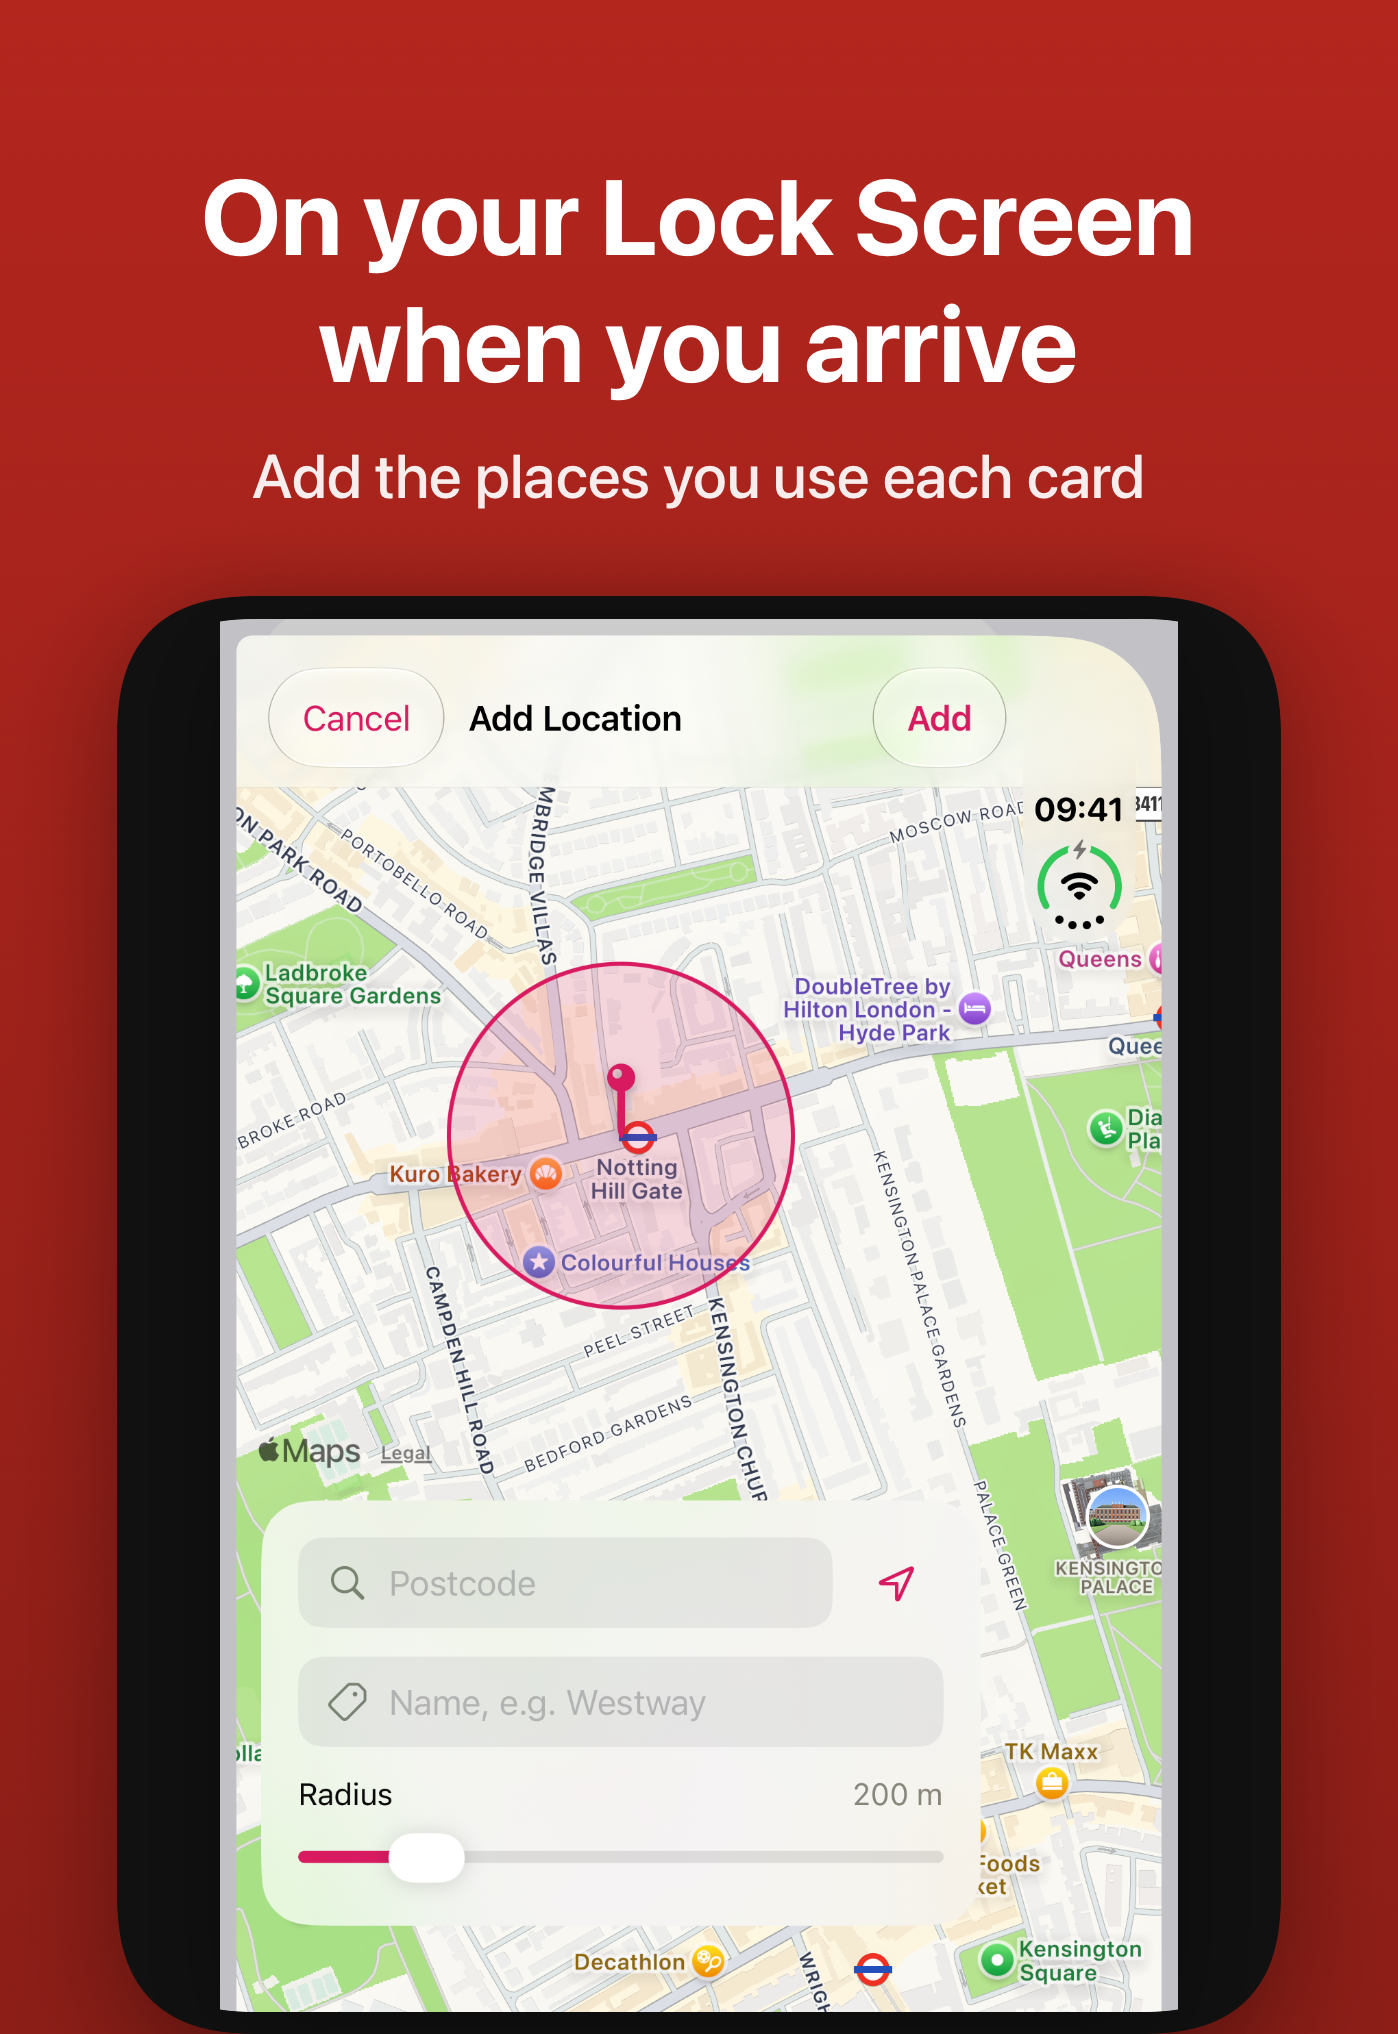
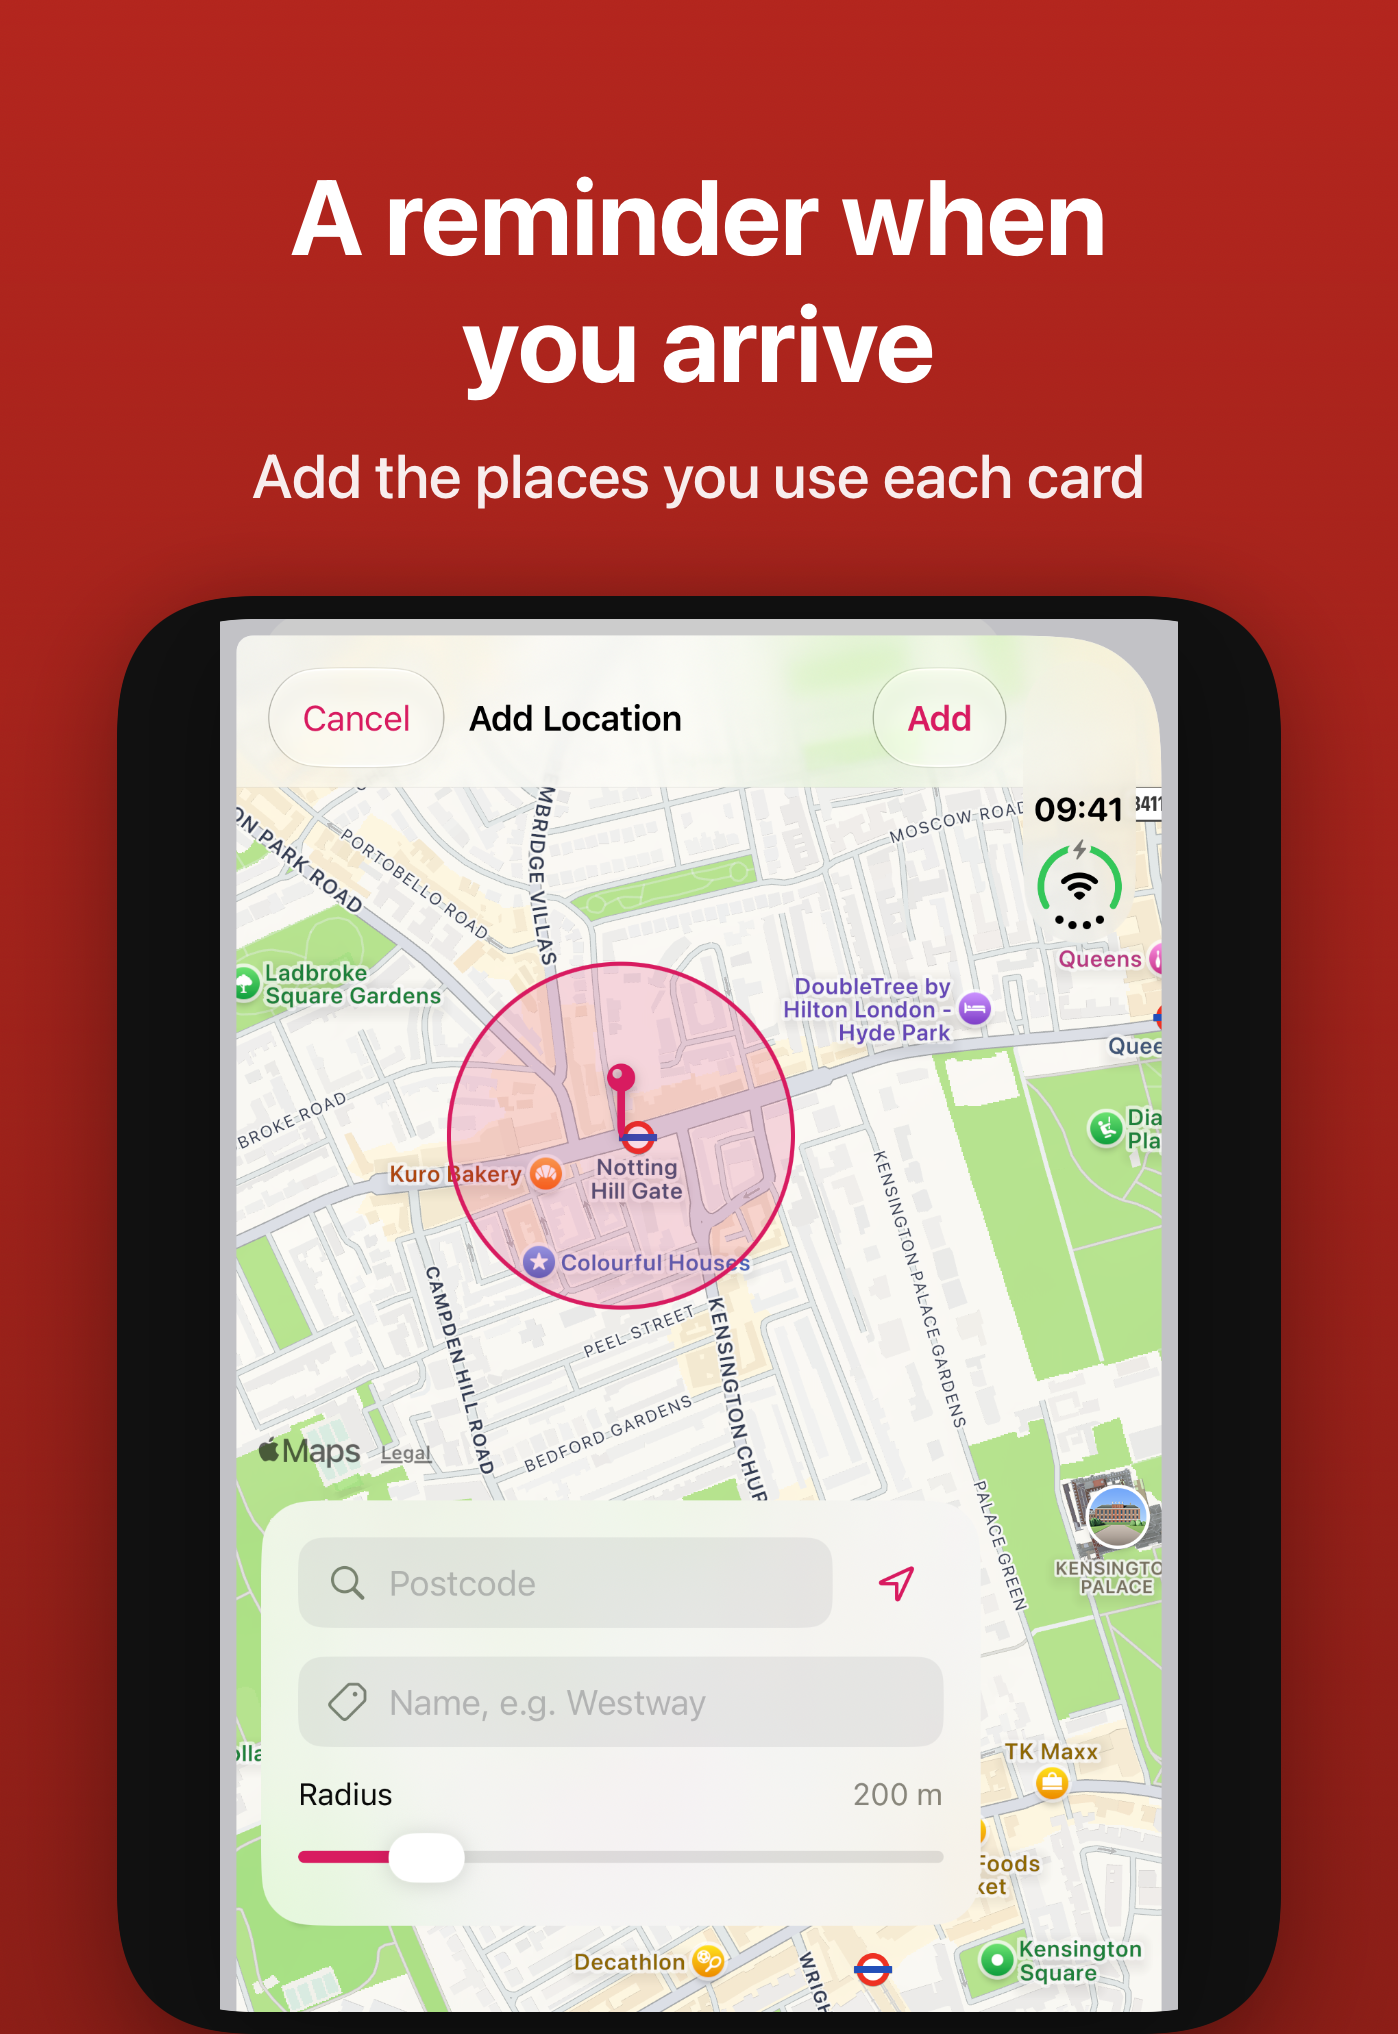
docs: stop saying the barcode appears on the Lock Screen when you arrive
The arrival notification shows the card's name and "You're at <place>.
Your barcode is ready." Its barcode image does not show on the Lock
Screen, so the changelog, App Store description and caption, review
notes, website, README and spec now describe a reminder that opens the
card when tapped. The in-app wording follows with the arrival changes.

Changed region(s): [[0.123, 0.0619, 0.8612, 0.2168]]

diff --git a/Website/src/index.html b/Website/src/index.html
@@ -47,8 +47,8 @@
         </div>
         <div class="feature">
           <span class="icon">📍</span>
-          <h3>Arrive and it is there</h3>
-          <p>Add the places you use a card, and its barcode appears on your Lock Screen when you get there.</p>
+          <h3>A reminder when you arrive</h3>
+          <p>Add the places you use a card, and a notification reminds you when you get there. Tap it to open the card.</p>
         </div>
         <div class="feature">
           <span class="icon">🎨</span>

diff --git a/spec/arrival-notifications.md b/spec/arrival-notifications.md
@@ -1,15 +1,15 @@
 # Arrival notifications
 
-When you arrive at one of a card's places, its barcode appears on your Lock Screen. Each place is a location-triggered local notification that iOS watches itself: there is no background location, no server, and nothing runs while the app is closed.
+When you arrive at one of a card's places, a notification reminds you, and tapping it opens the card. Each place is a location-triggered local notification that iOS watches itself: there is no background location, no server, and nothing runs while the app is closed.
 
-### ARR-1: See the barcode on my Lock Screen when I arrive
+### ARR-1: Get a reminder when I arrive
 
-As a card holder, I want the right card's barcode to appear when I reach the shop, so that it is ready before I get to the till.
+As a card holder, I want a reminder when I reach the shop, so that I open the right card before I get to the till.
 
 - Each place of each card (PLACE-1) is scheduled as a notification that fires when you enter its circle. Leaving the circle does nothing.
 - It fires every time you enter, without needing to be scheduled again.
 - The notification's title is the card's name and its text is "You're at <place>. Your barcode is ready."
-- It carries the barcode as an image on white with a quiet zone, ready to scan (BAR-2). A code that can't be drawn sends the notification without the image (BAR-3).
+- The app attaches the barcode to the notification as an image on white (BAR-2), but the barcode does not show on the Lock Screen: the notification appears as its title and text. A code that can't be drawn sends the notification without the attachment (BAR-3).
 - Notifications for the same card are grouped together.
 - While the app is open, an arrival still shows as a banner and in Notification Centre.
 - The app schedules from the Cards list: the first time the list appears after launch, and whenever a card's name, code, barcode type or places change, it removes every scheduled arrival and schedules the current ones (ARR-3).

diff --git a/spec/README.md b/spec/README.md
@@ -48,7 +48,7 @@ Only write what the code does. If a criterion is wrong, fix the criterion or the
 | [barcodes.md](barcodes.md) | BAR | Supported barcode types, how codes are drawn, codes that can't be drawn, and the brightness boost |
 | [colours-and-design.md](colours-and-design.md) | COL | The palette, custom colours, the card face, full-colour list rows, gradients, readable text, appearance and the app icon |
 | [places.md](places.md) | PLACE | Adding places on the map or by postcode, the radius, Add current location, removing places, distances and location permission |
-| [arrival-notifications.md](arrival-notifications.md) | ARR | The barcode on the Lock Screen on arrival, opening the card from it, the 20-region limit, permission and the Settings switch |
+| [arrival-notifications.md](arrival-notifications.md) | ARR | A reminder on arrival, opening the card from it, the 20-region limit, permission and the Settings switch |
 | [widget.md](widget.md) | WID | The Home Screen widget: nearest or chosen card, refresh, opening the card, layouts, tinted Home Screens and the snapshot |
 | [sync-and-data.md](sync-and-data.md) | DATA | iCloud sync, export and import as JSON, old exports, deleting every card, and where the store lives |
 | [settings.md](settings.md) | SET | The Settings screen and What's New |

diff --git a/CHANGELOG.md b/CHANGELOG.md
@@ -9,7 +9,7 @@ Every version of Card Barcodes and what it changed, newest first. This file is g
 - A Home Screen widget shows the barcode of the card for where you are, or one you choose.
 - Give each card a colour from 23, or pick any colour you like.
 - Add the places you use a card, from the map or by postcode, and see how far away they are.
-- Arrive at one of a card's places and its barcode appears on your Lock Screen.
+- Arrive at one of a card's places and a notification reminds you, and opens the card when you tap it.
 - Add where you are to a card straight from the card, with Add current location.
 - Turn arrival notifications on or off in Settings.
 - Pinch to zoom when scanning a barcode.
@@ -18,7 +18,7 @@ Every version of Card Barcodes and what it changed, newest first. This file is g
 
 - Cards show their full colour in the list, with names you can read on any colour.
 - Card screens have a new design, with the name and number on white panels.
-- A new app icon shows a barcode card behind a QR code card.
+- A new app icon that suppo
 - VoiceOver spells out a card's number, and buttons in light mode use a deeper pink that is easier to read.
 
 ## 1.1 (20 June 2026)

diff --git a/Readme.md b/Readme.md
@@ -4,7 +4,7 @@ A barcode wallet for iOS. Store loyalty cards, scan their barcodes with the came
 
 - **Any barcode:** Code 128, Code 39, Code 93, EAN-8, EAN-13, UPC-E, QR, Aztec and PDF417, scanned with pinch to zoom or typed in.
 - **Colours:** each card takes a colour from a palette tested for readable text, shown on the card and as a tint in the list.
-- **Locations:** pin any number of places to a card on the map, or by postcode. The list and card show how far away the nearest is, and the barcode appears on the Lock Screen when you arrive.
+- **Locations:** pin any number of places to a card on the map, or by postcode. The list and card show how far away the nearest is, and a notification reminds you when you arrive.
 - **Sync and export:** cards sync through iCloud and export to JSON.
 
 Built with SwiftUI, SwiftData and CloudKit as a plain Xcode project, for iOS 18 and later.
